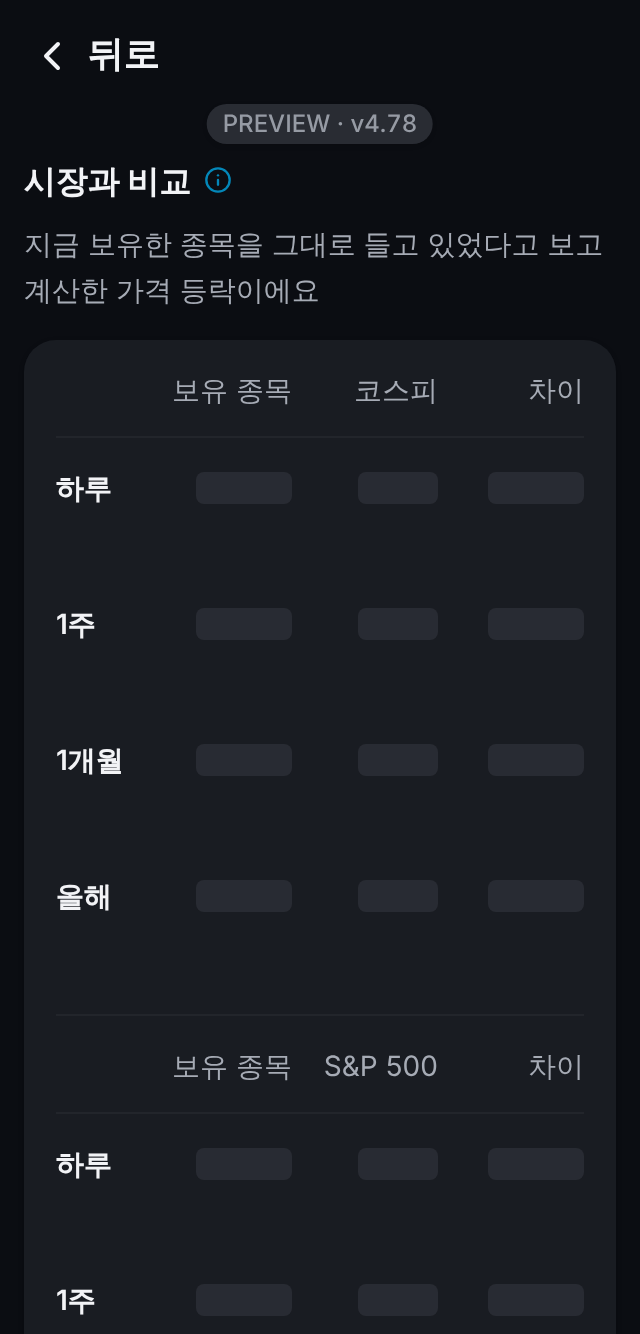
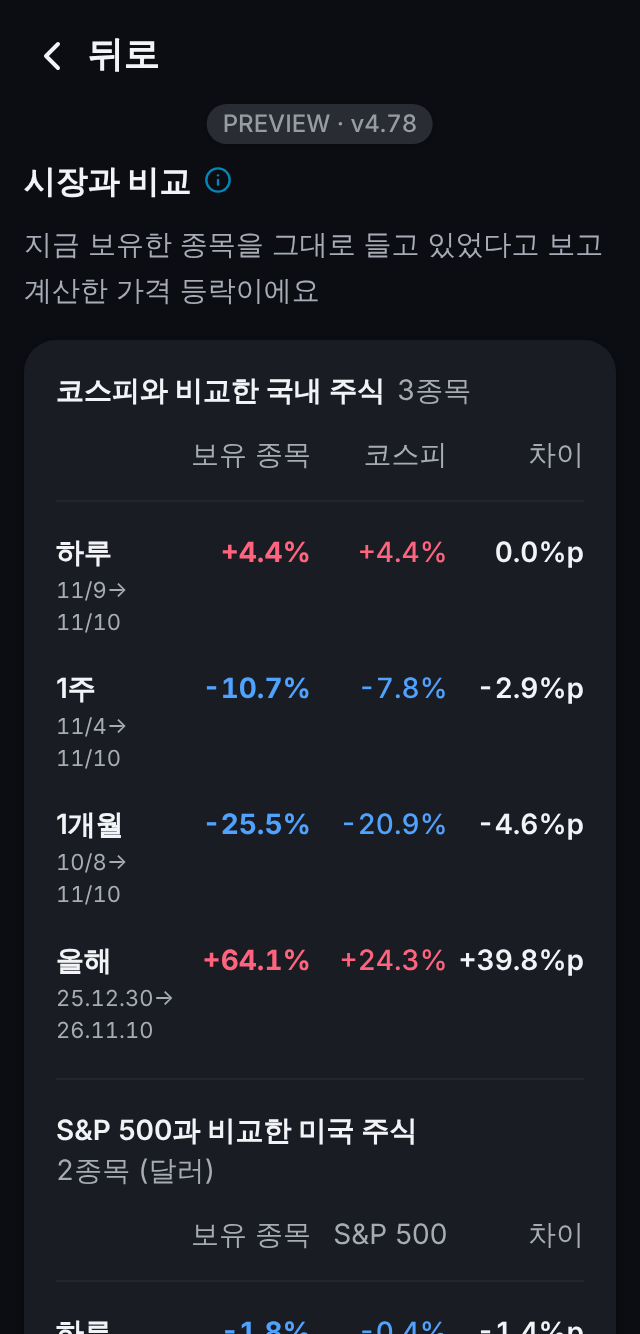
memory: 4.78 ui-review(수정 요청 2건)

diff --git a/issues/4.78-150-market-ytd/4.78-ui-review.md b/issues/4.78-150-market-ytd/4.78-ui-review.md
@@ -1,0 +1,29 @@
+# 4.78 ui-review — 시장과 나란히 '올해' (#150)
+
+검수: ui-designer 2026-11-11 · preview(issue-478, `?trial=1`, Vercel 배포 200 확인; MCP get_status는 도구 미제공이라 접속으로 대체) · 코드 4b50a85 읽기 · 캡처 `screenshots/ur-*`
+방법: Playwright(Chromium 2x) 320·375·1280 × 라이트·다크. 최악값(`+123.4%`·`-123.4%p`)을 올해 행에 주입해 실측.
+
+## 판정: UI 수정 요청 (2건 필수, 1건 권고) — 승인 보류
+
+### 수정 요청
+1. **[필수] 목록 기간 선택 `1개월`이 `1개…`로 잘림 (전 폭 320·360·375·1280 동일)** — `market-list-period-monthly` 칸 폭 49px, 좌우 padding 8px, `text-overflow: ellipsis`, scrollWidth 50 > clientWidth 49. ui.md 4절은 `1개월` 약 36px이면 들어간다고 했으나 실제는 안 들어감. 기대값: 4칸 모두 라벨 전체 표시. 방법 예: `w-[200px]`→`w-[216px]`(320 폭 `종목별`42+gap12+216=270 > 264라 불가하므로) 칸 좌우 padding을 `px-1`(4px)로 줄이거나, 4칸 선택에서만 padding 축소. 320에서 `종목별`과 한 줄 유지(254 이하) 재확인. 캡처 `ur-list-week-{320,360,375,1280}-light.png`, `ur-list-ytd-320-dark.png`.
+2. **[필수] 최악값에서 `차이` 열 넘침 (320·375 모두)** — `-123.4%p`가 14px에서 폭 71.9px인데 열 폭은 64.3~64.4px(기간 칸이 auto라 ui.md 가정 66보다 좁음). 오른쪽 끝이 카드 안쪽 패딩선을 320에서 +7.6px(299.6/292), 375에서 +7.5px(354.5/347) 넘어 열 머리 `차이`와 정렬이 깨지고 `p`가 패딩 안으로 삽출. 375에서 보유 종목 `+123.4%`(16px, 72.3px)도 열보다 8px 넓어 시장 값과 0.6px 겹침 직전. 문서·표 가로 스크롤은 0이므로 눈에 띄는 깨짐은 극단값 한정이지만 ui.md 체크 2·3(`차이 오른쪽 끝이 패딩선 안`)을 충족 못 함. 기대값: 최악값에서 세 열 모두 열 안, 패딩선 안. 방법 예: 차이 열을 `text-[13px]`로 내리거나 값 칸 `minmax(0,1fr)` 대신 `auto` 기반 열 폭 확보, 320은 시장·차이도 `max-[359px]:text-xs`. 실데이터(`+39.8%p`, 62.8px)는 현재 안 넘치나 -100%대 하락·2배 이상 상승 종목이 있는 계정에서 발생.
+   캡처 `ur-market-worst-{320,375}-{light,dark}.png`.
+
+### 권고(승인 막지 않음)
+3. 320에서 기간 칸이 구간 2줄 때문에 행 높이 56px가 되어 블록 337px(375는 273px). 667 화면에서 첫 블록 올해 행이 y467~523로 보이긴 하나 여유가 작다. 설계 의도(`→` 뒤 줄바꿈)와 일치하므로 수용.
+
+## 통과 항목(실측)
+- 전치 표: 375·1280 한 줄 구간, 행 40px·블록 273px, 375×667에서 첫 블록 4행 전체(올해 행 y419~459) 보임·둘째 블록은 스크롤. 1280 두 블록 나란히(`sm:grid-cols-2`) 정렬 양호. 문서 가로 넘침 0(전 조합).
+- 폰트: 320 보유 종목 14px, 375·1280 16px. 구간 320 `→` 뒤 2줄/375+ 1줄, 올해 `25.12.30→26.11.10`, 나머지 `M/D`. 차이 색=전경(라이트 lab 2.2 / 다크 95.9), 보유·시장 손익색, `0.0%p` 전경.
+- 목록: 올해 선택 시 `market-to-change` 0개, 묶음 머리 `25.12.30→26.11.10`·`25.12.31→26.11.10`, 미국 배지와 겹침 0, 가로 넘침 0, 하단 여백 16px(링크 숨김 시 어색한 빈 공간 없음). 기간 선택 노드 1개, `market-list-period-ytd` 존재.
+- 비교 기준 자세히: 7줄(기존5+올해2), 줄바꿈 `break-keep` 양호, `1년`은 마지막 줄에만.
+- 연 탭(주식): `올해 시장과 비교 ›` 1줄, 값 줄 없음, `data-period="ytd"`, 버튼 높이 40px, 월→연 전환 시 기간 선택 y 불변(256/256, 1280 267.5), Hero `1년 주식 수익`이 링크 위, 코스피·S&P 값 숫자 0. 월 탭은 `코스피 -20.9% · S&P 500 -3.7% / 시장과 비교` 2줄 기존 그대로.
+- 상세·주식 글줄: 코드 diff로 `variant="stock"` 분기·문구 불변, `views/detail` diff 0 (캡처 미촬영, 차이 없음 판정).
+- 라이트·다크 위계 동일, 신규 색·패턴 0.
+
+## 미검증(한계)
+- 올해 pending(연초 휴장) 상태: 오늘(11/11)이라 실제 화면에 재현 불가 → 단위 테스트 의존, 1월 초 운영 확인 또는 qa가 주입 확인 필요(`market-ytd-pending` 한 줄·`집계 전`·`—` 3개).
+- 로딩 중 4행 틀·빈 상태는 이번 캡처 범위 밖(첫 캡처 때 값 로딩 중 라벨만 보이는 틀 확인).
+
+수정 반영 후 재검수 요청: 위 1·2번 재측정(320·375 최악값, `1개월` 전체 표시).
